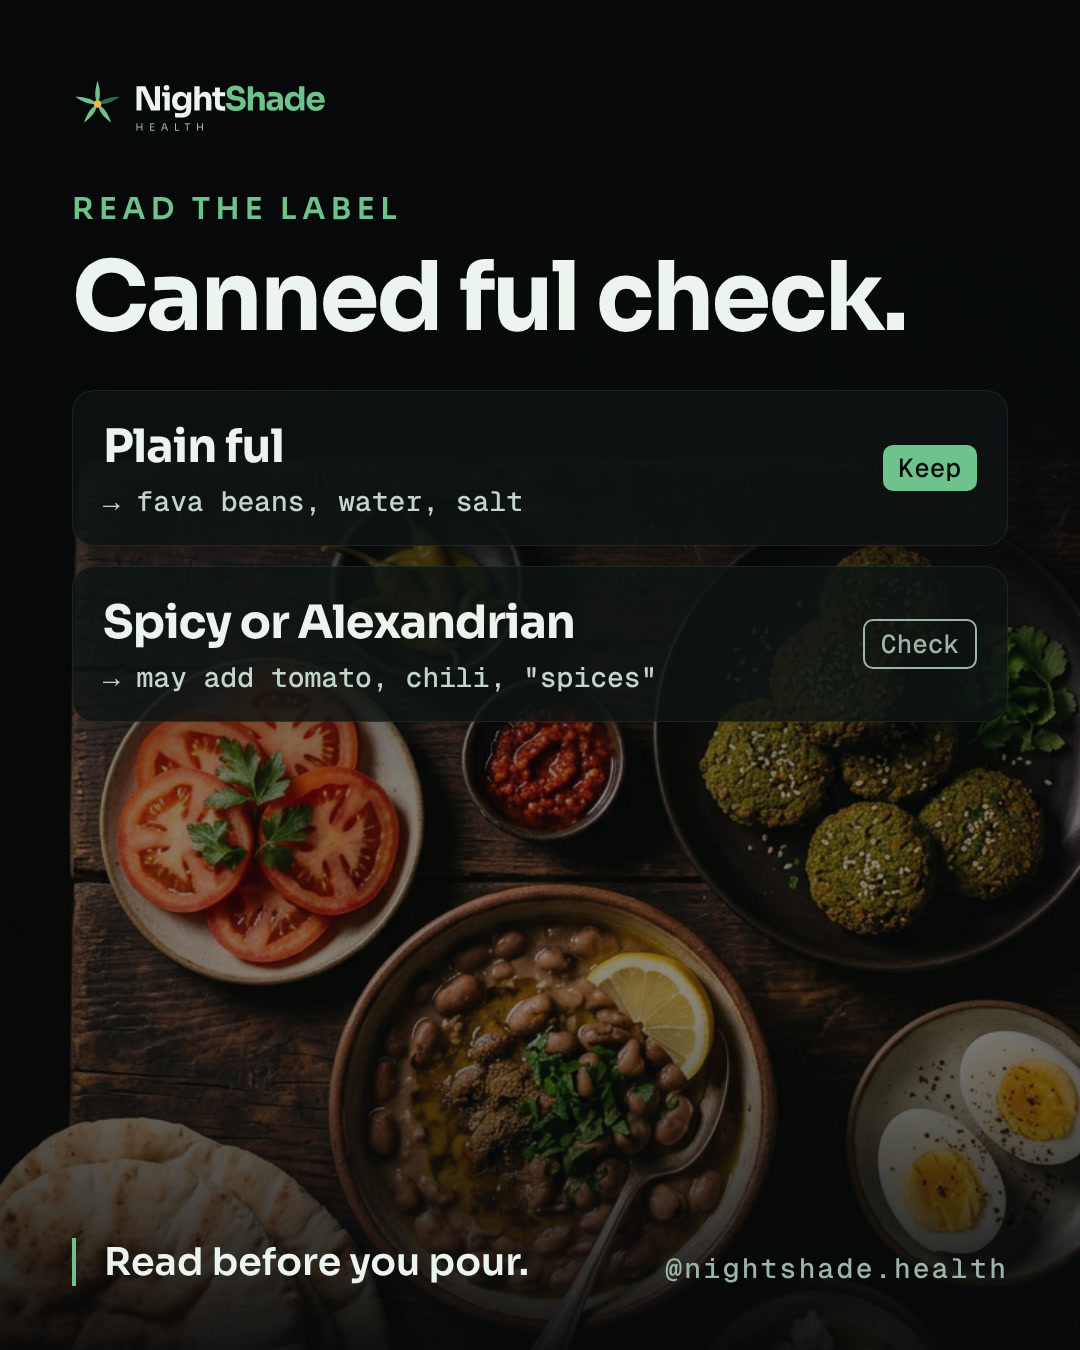
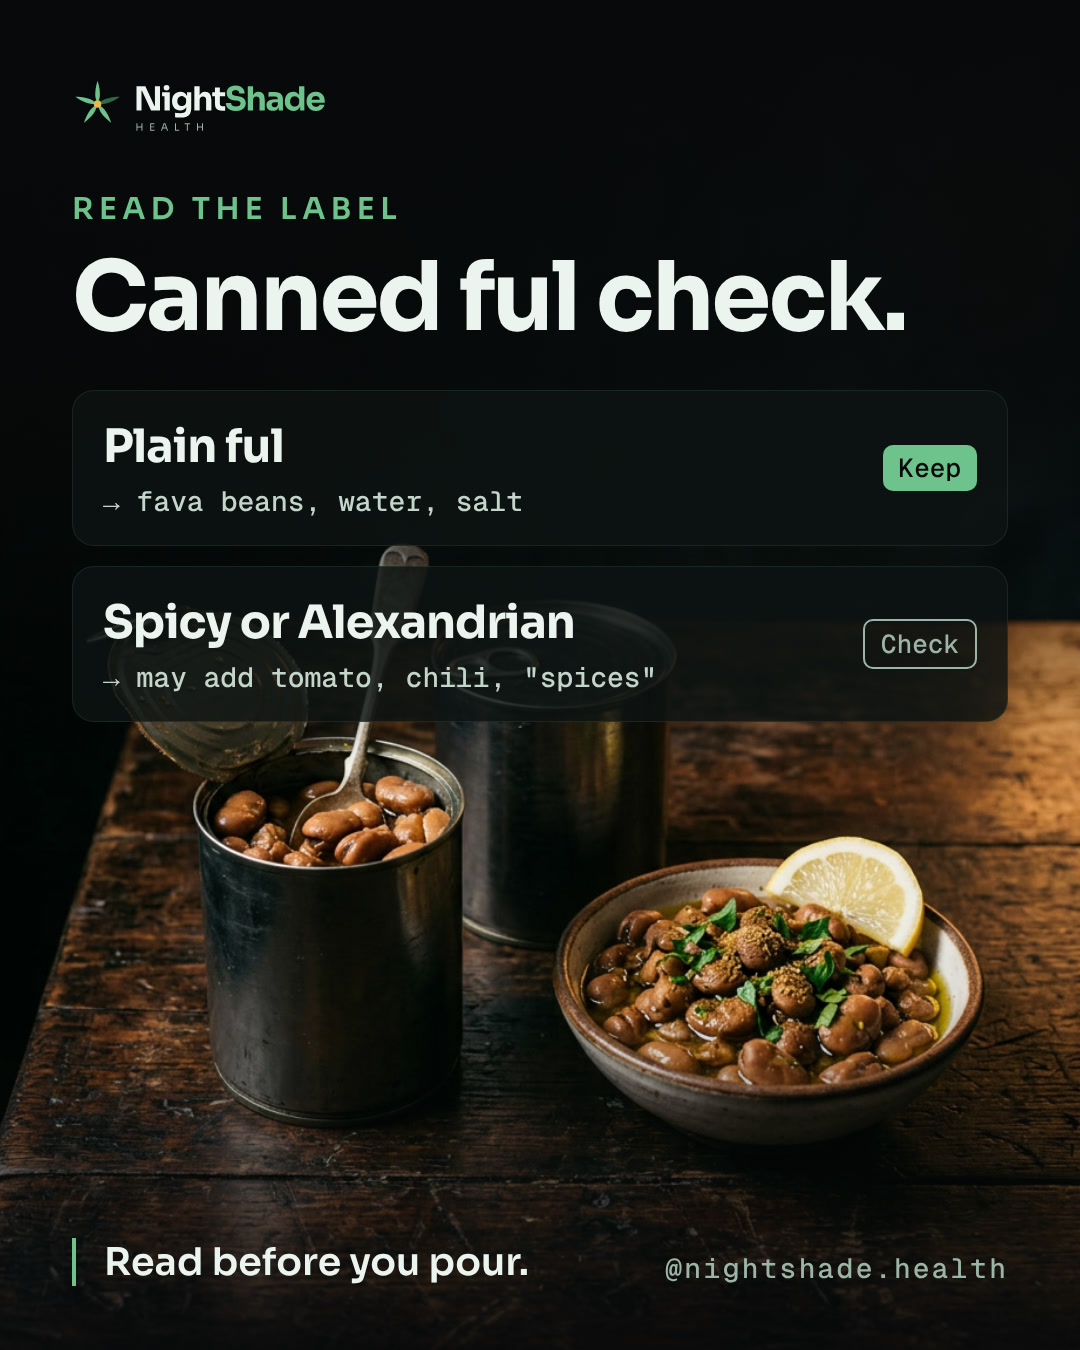
New photos for canned ful, ful debate, snacks and E160c cards
Claude-Session: https://claude.ai/code/session_019qCzaCx3WfYVTS2hDbekSA

diff --git a/remotion/src/Cards.tsx b/remotion/src/Cards.tsx
@@ -209,7 +209,7 @@ export const CARDS: Record<string, CardSpec> = {
     note: {strong: 'Dress it simply.', soft: 'Lemon, olive oil, salt.'},
   },
   'canned-ful': {
-    photo: 'breakfast.jpg', shade: 0.45, overline: 'Read the label', headline: 'Canned ful check.',
+    photo: 'ful-cans.jpg', overline: 'Read the label', headline: 'Canned ful check.',
     items: [{title: 'Plain ful', detail: 'fava beans, water, salt', chip: 'Keep', tone: 'keep'}, {title: 'Spicy or Alexandrian', detail: 'may add tomato, chili, "spices"', chip: 'Check', tone: 'no'}],
     note: {strong: 'Read before you pour.'},
   },
@@ -220,7 +220,7 @@ export const CARDS: Record<string, CardSpec> = {
     note: {strong: 'All the comfort.', soft: 'No tomato, no peppers.'},
   },
   'ful-debate': {
-    photo: 'breakfast.jpg', overline: 'The big ful debate', headline: 'Tahini, or oil and lemon?',
+    photo: 'ful-bowls.jpg', overline: 'The big ful debate', headline: 'Tahini, or oil and lemon?',
     items: [{title: 'Tahini', chip: 'Comment 1', tone: 'keep'}, {title: 'Oil and lemon', chip: 'Comment 2', tone: 'keep'}],
   },
   'street-food-1': {photo: 'koshari.jpg', overline: 'Egyptian street food 101', headline: 'Where nightshades usually hide.', slide: [1, 4]},
@@ -228,7 +228,7 @@ export const CARDS: Record<string, CardSpec> = {
   'street-food-3': {photo: 'koshari.jpg', shade: 0.6, overline: 'Where it hides', headline: 'Fries & shawarma', size: 88, items: [{title: 'Fries', detail: 'the potato itself', chip: 'Nightshade'}, {title: 'Shawarma', detail: 'the spice mix and sauces', chip: 'Check', tone: 'no'}], slide: [3, 4]},
   'street-food-4': {photo: 'koshari.jpg', shade: 0.6, overline: 'Before you order', headline: 'Ask about the sauce.', size: 104, sub: 'Most of it hides in sauces and spice mixes, not in the main ingredients.', slide: [4, 4]},
   snacks: {
-    photo: 'label-aisle.jpg', shade: 0.35, overline: 'Not a potato chip?', headline: 'Still check the flavour.',
+    photo: 'snack-bags.jpg', overline: 'Not a potato chip?', headline: 'Still check the flavour.',
     sub: 'Corn and wheat snacks can carry nightshades too, especially the flavoured ones.',
     groups: [{chip: 'Check for', tone: 'no', items: ['Paprika', 'Tomato powder', '"Spices"']}],
   },
@@ -246,7 +246,7 @@ export const CARDS: Record<string, CardSpec> = {
 
   // ---- December ----
   e160c: {
-    photo: 'spice-jars-tall.jpg', shade: 0.55, overline: 'Colour from peppers', headline: 'E160c', size: 200,
+    photo: 'red-orange-foods.jpg', shade: 0.2, overline: 'Colour from peppers', headline: 'E160c', size: 200,
     sub: 'Paprika extract. It gives a red-orange colour to snacks, sausages, sauces and some cheeses.',
     groups: [{chip: 'Nightshade', tone: NS, items: ['E160c = pepper']}],
   },
